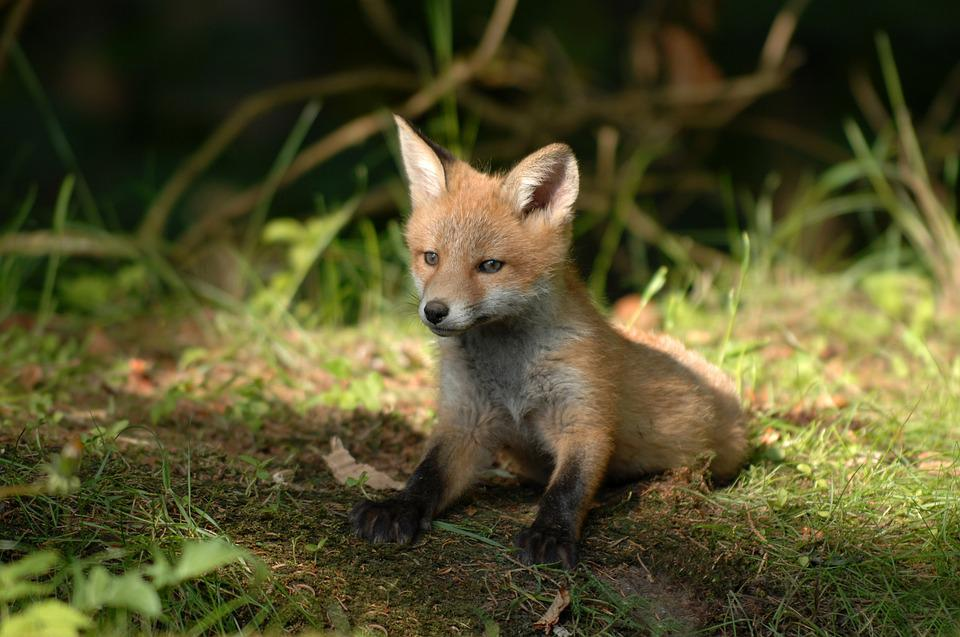
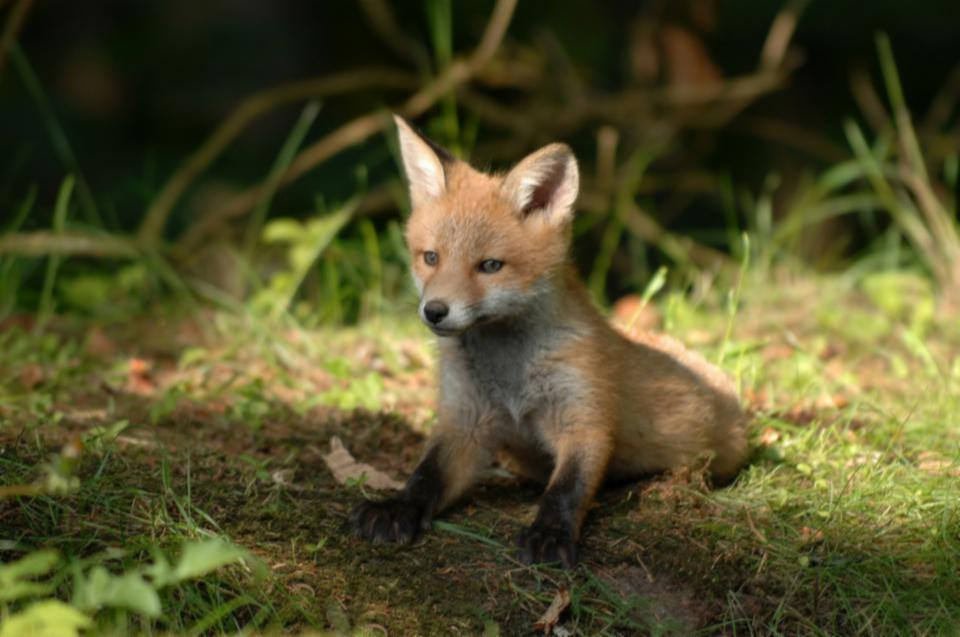
Updated box filter
Updated the box filter

diff --git a/Filters/main.py b/Filters/main.py
@@ -315,17 +315,23 @@ class App(QMainWindow):
 
             elif (filterType == "Box filter"):
                 Percentage = 0
+
                 for x in range(1, im.size[0] - 1):
                     Percentage = Percentage + 1
                     self.pbar.setValue(Percentage)
                     for y in range(1, im.size[1] - 1):
-                        tmp = (px[x - 1, y - 1][0] * 1 + px[x, y - 1][0] * 1 + px[x + 1, y - 1][0] * 1 + px[x - 1, y][
-                            0] * 1 +
-                               px[x, y][0] * (1) + px[x + 1, y][0] * 1 + px[x - 1, y + 1][0] * (-1) + px[x, y + 1][
-                                   0] * (
-                                  1) +
-                               px[x + 1, y + 1][0] * (-1))
-                        pxtmp[x, y] = (int(tmp), int(tmp), int(tmp))
+                        R = 0
+                        B = 0
+                        G = 0
+                        for i in range(-1, 2):
+                            for j in range(-1, 2):
+                                R += px[x + j, y + i][0]
+                                G += px[x + j, y + i][1]
+                                B += px[x + j, y + i][2]
+                        R /= 9
+                        G /= 9
+                        B /= 9
+                        px[x, y] = (int(R), int(G), int(B))
                 im.save(image_save)
 
             elif (filterType == "Edge detection"):
